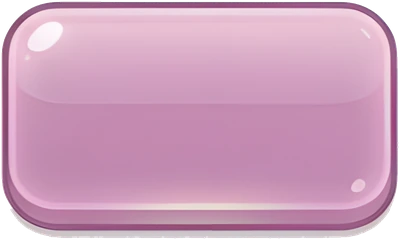
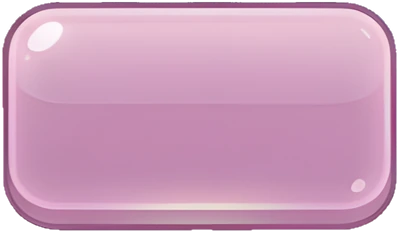
preview(rc): 출시 후보 미리보기 갱신 — 단추 · 바 그림 가장자리 정리 — 겉선 밖 회색 그림자 · 밝은 테 걷기(뒤로 · 일시정지 · 별 · 모험 · 캐릭터 · 등급 배지) (wave/p3 2982e84 빌드) · PC 가운데 틀 play.html · 공개 게임 무변 · 저장 칸 tentwin.v74p · 서비스 워커 없음
Approval: user-2026-10-19
Claude-Session: https://claude.ai/code/session_01Km6J5ppXK7vTLb1soCEqYd

diff --git a/preview-v74/tentwin.html b/preview-v74/tentwin.html
@@ -6887,10 +6887,10 @@ font-size: 12px;
 --lib-glyph-lock: url("catalog/lib-glyph-lock.webp");
 --lib-glyph-star-empty: url("catalog/lib-glyph-star-empty.webp");
 --lib-glyph-back: url("catalog/lib-glyph-back.webp");
---lib-badge-s: url("catalog/lib-badge-s.webp");
---lib-badge-a: url("catalog/lib-badge-a.webp");
---lib-badge-b: url("catalog/lib-badge-b.webp");
---lib-badge-c: url("catalog/lib-badge-c.webp");
+--lib-badge-s: url("catalog/lib-badge-s.webp?v=11");
+--lib-badge-a: url("catalog/lib-badge-a.webp?v=11");
+--lib-badge-b: url("catalog/lib-badge-b.webp?v=11");
+--lib-badge-c: url("catalog/lib-badge-c.webp?v=11");
 --lib-medal-gold: url("catalog/lib-medal-gold.webp");
 --lib-medal-silver: url("catalog/lib-medal-silver.webp");
 --lib-medal-bronze: url("catalog/lib-medal-bronze.webp");
@@ -9266,7 +9266,7 @@ filter: drop-shadow(0 0 10px rgba(102, 240, 159, .40));
 <link rel="preload" as="image" href="catalog/jelly-box-c.webp">
 <link rel="preload" as="image" href="catalog/duel-title-play.webp">
 <!-- ==RELEASE:BEGIN== 출시 메타 (scratchpad/release-0908/apply-head.py 가 생성·교체, 본문 무접촉) -->
-<meta name="build" content="a54385c-20261019-1350">
+<meta name="build" content="2982e84-20261019-1637">
 <meta name="application-name" content="텐트윈 젤리팡 월드">
 <meta name="description" lang="ko" content="숫자 젤리를 골라 10을 만들어 터뜨리는 퍼즐이에요. 모험·아케이드·데일리·타임 러시·클래식을 즐겨요. Ten Twin Jelly Pang World: pick number jellies that equal or sum to 10.">
 <link rel="manifest" href="tentwin.webmanifest">
@@ -9320,7 +9320,7 @@ navigator.serviceWorker.register('sw.js',{scope:'./'}).catch(function(e){console
 })}
 </script>
 <!-- ==RELEASE:END== -->
-<link rel="preload" as="style" href="tw-late-1cefd76e.css">
+<link rel="preload" as="style" href="tw-late-ede5343b.css">
 </head>
 <body>
 <!-- ============================================================
@@ -12483,13 +12483,13 @@ width/height 0 + aria-hidden: 레이아웃·접근성 트리에 아무것도 더
 
 <script defer src="catalog/js/tw-05-caef25ff.js" id="bg-preview-hook"></script>
 <script defer src="catalog/js/tw-06-4ecf73a8.js" id="screen-preview-hook"></script>
-<script defer src="catalog/js/tw-07-90de488b.js" id="catalog-preload"></script>
+<script defer src="catalog/js/tw-07-d05224c1.js" id="catalog-preload"></script>
 <script defer src="catalog/js/tw-08-2dd1f1d6.js"></script>
 
 
 
 
-<link rel="stylesheet" href="tw-late-1cefd76e.css">
+<link rel="stylesheet" href="tw-late-ede5343b.css">
 <style id="compat-p1">
 @supports not (width: 1cqw) {
 #app.classic #classic-hud { --cqw: min(1vw, calc(var(--app-max) / 100)); height: calc(38.5 * var(--cqw)); }
@@ -13179,11 +13179,11 @@ color: var(--prim-white); font-family: var(--font-display); line-height: 1; poin
 #app .tb > .tb-gear    { top: calc(var(--tb-u) * 3.5); }
 #app .tb > .tb-mission { top: calc(var(--tb-u) * 3.5 + var(--tb-rh) + var(--tb-rg)); }
 #app .tb > .tb-rec     { top: calc(var(--tb-u) * 3.5 + (var(--tb-rh) + var(--tb-rg)) * 2); }
-#app .tb > .tb-back    { background-image: url("catalog/stage-btn_back.webp?v=9"); background-size: contain; }
+#app .tb > .tb-back    { background-image: url("catalog/stage-btn_back.webp?v=11"); background-size: contain; }
 #app .tb > .tb-heart   { background-image: url("catalog/stage-pill_life.webp"); }
-#app .tb > .tb-coin    { background-image: url("catalog/stage-pill_coin.webp?v=9"); }
-#app .tb > .tb-star    { background-image: url("catalog/stage-pill_star.webp?v=9"); }
-#app .tb > .tb-gear    { background-image: url("catalog/stage-btn_settings.webp?v=9"); }
+#app .tb > .tb-coin    { background-image: url("catalog/stage-pill_coin.webp?v=11"); }
+#app .tb > .tb-star    { background-image: url("catalog/stage-pill_star.webp?v=11"); }
+#app .tb > .tb-gear    { background-image: url("catalog/stage-btn_settings.webp?v=11"); }
 #app .tb > .tb-mission { background-image: url("catalog/hud-btn-mission.webp"); }
 #app .tb > .tb-rec     { background-image: url("catalog/hud-btn-records.webp"); }
 #app .tb > .kd-avatar  { --f2-chip-fill: var(--prim-white-a34); --kd-av-d: var(--tb-lead); border-radius: 50%; background-color: var(--f2-chip-fill); }
@@ -13221,9 +13221,9 @@ color: var(--prim-white); font-family: var(--font-display); line-height: 1; poin
 #app .bb > .bb-center:has(> .mp-txt:active) { transform: translateY(var(--hub-press)); }
 #app .bb > .bb-theater { background-image: url("catalog/stage-btn_theater.webp"); }
 #app .bb > .bb-play    { background-image: url("catalog/stage-btn_playground.webp"); }
-#app .bb > .bb-char    { aspect-ratio: 200 / 241; background-image: url("catalog/stage-btn_chars.webp"); }
+#app .bb > .bb-char    { aspect-ratio: 200 / 241; background-image: url("catalog/stage-btn_chars.webp?v=11"); }
 #app .bb > .bb-shop    { background-image: url("catalog/stage-btn_shop.webp"); }
-#app .bb > .bb-center  { width: var(--bb-mid); aspect-ratio: 400 / 240; background-image: url("catalog/stage-pill_chapter.webp"); }
+#app .bb > .bb-center  { width: var(--bb-mid); aspect-ratio: 400 / 240; background-image: url("catalog/stage-pill_chapter.webp?v=11"); }
 #app .bb > * > .bb-lab {
 position: absolute; left: 50%; top: 73%; width: 100%; transform: translate(-50%, -50%);
 font-size: max(var(--text-min), calc(var(--bb-side) * 3.5 / 15.43)); font-weight: 700; letter-spacing: -.03em; text-align: center;

diff --git a/preview-v74/catalog/js/tw-07-d05224c1.js b/preview-v74/catalog/js/tw-07-d05224c1.js
@@ -38,8 +38,8 @@ var L=("jelly-box-c,duel-title-play,sian2-ribbon,sian2-btn-pink,sian2-btn-purple
 +"ttl-howto-en,ttl-settings-en,ttl-skin-en,ttl-pause-en,ttl-over-en,ttl-rank-en,"
 +"ch-mukmul-face,ch-tiktok-face,ch-kkultteok-face,ch-bangul-face,"
 +"ch-tiktok-full").split(",");
-var V="stage-btn_back,stage-pill_coin,stage-pill_star,stage-btn_settings";
-var VQ="?v=9";                                     /* CSS 쪽 ?v= 와 반드시 같은 값 */
+var V="stage-btn_back,stage-pill_coin,stage-pill_star,stage-btn_settings,stage-pill_chapter,stage-btn_chars,hud-btn-pause,lib-badge-a,lib-badge-b,lib-badge-c,lib-badge-s";
+var VQ="?v=11";                                     /* CSS 쪽 ?v= 와 반드시 같은 값 */
 var i=0,bgmQueued=0;
 function next(){
 if(i>=L.length){ if(!bgmQueued){ bgmQueued=1; warmBgm(); } return; }  /* 그림 끝 → BGM */

diff --git a/preview-v74/tw-late-ede5343b.css b/preview-v74/tw-late-ede5343b.css
@@ -7113,7 +7113,7 @@ width:calc(100% * 1.074);
 height:auto;
 aspect-ratio:468/484;
 transform:translate(-50%, -50%);
-background:url("catalog/hud-btn-pause.webp") center/contain no-repeat;
+background:url("catalog/hud-btn-pause.webp?v=11") center/contain no-repeat;
 pointer-events:none;
 }
 #app.battle #btn-pause .ic,
